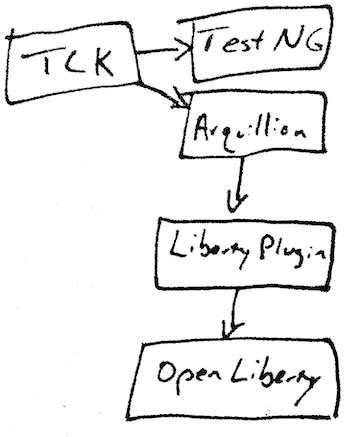
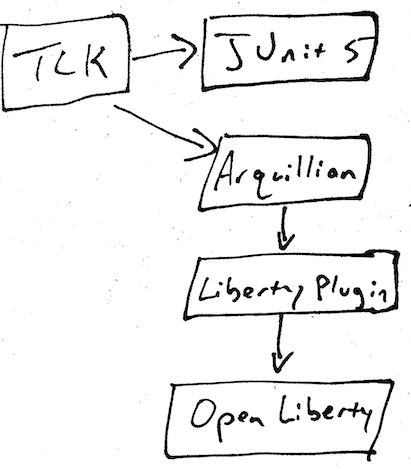
Run using JUnit 5

Changed region(s): [[0.0, 0.0, 0.9915, 0.9817], [0.3099, 0.238, 0.3718, 0.2677], [0.9915, 0.4165, 1.0, 0.4462]]

diff --git a/src/test/java/com/example/it/GreetingResourceTest.java b/src/test/java/com/example/it/GreetingResourceTest.java
@@ -1,7 +1,7 @@
 package com.example.it;
 
-import static org.testng.Assert.assertEquals;
-import static org.testng.Assert.assertTrue;
+import static org.junit.jupiter.api.Assertions.assertEquals;
+import static org.junit.jupiter.api.Assertions.assertTrue;
 
 import com.example.GreetingMessage;
 import com.example.GreetingResource;
@@ -13,22 +13,23 @@ import jakarta.ws.rs.client.WebTarget;
 import jakarta.ws.rs.core.MediaType;
 import jakarta.ws.rs.core.Response;
 import org.jboss.arquillian.container.test.api.Deployment;
+import org.jboss.arquillian.junit5.ArquillianExtension;
 import org.jboss.arquillian.test.api.ArquillianResource;
-import org.jboss.arquillian.testng.Arquillian;
 import org.jboss.shrinkwrap.api.ShrinkWrap;
 import org.jboss.shrinkwrap.api.asset.EmptyAsset;
 import org.jboss.shrinkwrap.api.spec.WebArchive;
-import org.testng.annotations.AfterTest;
-import org.testng.annotations.BeforeTest;
-import org.testng.annotations.Test;
+import org.junit.jupiter.api.AfterEach;
+import org.junit.jupiter.api.BeforeEach;
+import org.junit.jupiter.api.Test;
+import org.junit.jupiter.api.extension.ExtendWith;
 
 import java.net.MalformedURLException;
 import java.net.URL;
 import java.util.logging.Level;
 import java.util.logging.Logger;
 
-
-public class GreetingResourceTest extends Arquillian {
+@ExtendWith(ArquillianExtension.class)
+public class GreetingResourceTest {
     private final static Logger LOGGER = Logger.getLogger(GreetingResourceTest.class.getName());
     
     @Deployment(testable = false)
@@ -46,14 +47,14 @@ public class GreetingResourceTest extends Arquillian {
     
     private Client client;
     
-    @BeforeTest
+    @BeforeEach
     public void setup() {
         LOGGER.info("call BeforeEach");
         this.client = ClientBuilder.newClient();
         //removed the Jackson json provider registry, due to OpenLiberty 21.0.0.1 switched to use Resteasy.
     }
     
-    @AfterTest
+    @AfterEach
     public void teardown() {
         LOGGER.info("call AfterEach");
         if (this.client != null) {

diff --git a/src/test/java/com/example/it/GreetingServiceTest.java b/src/test/java/com/example/it/GreetingServiceTest.java
@@ -1,6 +1,6 @@
 package com.example.it;
 
-import static org.testng.Assert.assertTrue;
+import static org.junit.jupiter.api.Assertions.assertTrue;
 
 import java.util.logging.Level;
 import java.util.logging.Logger;
@@ -9,17 +9,18 @@ import com.example.GreetingMessage;
 import com.example.GreetingService;
 import jakarta.inject.Inject;
 import org.jboss.arquillian.container.test.api.Deployment;
-import org.jboss.arquillian.testng.Arquillian;
+import org.jboss.arquillian.junit5.ArquillianExtension;
 import org.jboss.shrinkwrap.api.ShrinkWrap;
 import org.jboss.shrinkwrap.api.asset.EmptyAsset;
 import org.jboss.shrinkwrap.api.spec.JavaArchive;
-import org.testng.annotations.Test;
+import org.junit.jupiter.api.Test;
+import org.junit.jupiter.api.extension.ExtendWith;
 
 
 
 
-
-public class GreetingServiceTest extends Arquillian {
+@ExtendWith(ArquillianExtension.class)
+public class GreetingServiceTest {
     private final static Logger LOGGER = Logger.getLogger(GreetingServiceTest.class.getName());
 
     @Deployment

diff --git a/src/test/java/com/example/GreetingServiceUnitTest.java b/src/test/java/com/example/GreetingServiceUnitTest.java
@@ -1,16 +1,15 @@
 package com.example;
 
-import static org.testng.Assert.assertTrue;
+import static org.junit.jupiter.api.Assertions.assertTrue;
 
-import org.testng.annotations.BeforeTest;
-import org.testng.annotations.Test;
-
+import org.junit.jupiter.api.BeforeEach;
+import org.junit.jupiter.api.Test;
 
 public class GreetingServiceUnitTest {
 
     GreetingService service;
 
-    @BeforeTest
+    @BeforeEach
     public void setup() {
         service = new GreetingService();
     }

diff --git a/src/test/java/com/example/GreetingMessageTest.java b/src/test/java/com/example/GreetingMessageTest.java
@@ -1,11 +1,8 @@
 package com.example;
 
-import static org.testng.Assert.assertEquals;
+import static org.junit.jupiter.api.Assertions.assertEquals;
 
-import org.testng.annotations.Test;
-
-
-
+import org.junit.jupiter.api.Test;
 
 public class GreetingMessageTest {
 

diff --git a/README.md b/README.md
@@ -3,13 +3,13 @@
 This project describes how a vendor application server might run the Jakarta REST 3.1 TCK to verify compliance.
 
 The TCK uses Arquillian as a deployment tool. This allows vendors to build their own plugin that will allow Arquillian
-to start and stop the server, deploy test applications, etc. The TCK uses TestNG as the testing framework which also
+to start and stop the server, deploy test applications, etc. The TCK uses JUnit 5 as the testing framework which also
 plugs into Arquillian. This project really just puts the pieces together, like so:
 
 ![](tck-flow.png)
 
-The real magic is in the [pom.xml file](pom.xml) - that pulls in the required dependencies (the TCK, TestNG, Arquillian,
-the app server - in this case, Open Liberty, the liberty-arquillian plugin, etc.). Then it sets up the
+The real magic is in the [pom.xml file](pom.xml) - that pulls in the required dependencies (the TCK, JUnit 5,
+Arquillian, the app server - in this case, Open Liberty, the liberty-arquillian plugin, etc.). Then it sets up the
 `integration-test` target to run the tests in the TCK.
 
 You can see it run with the command:
